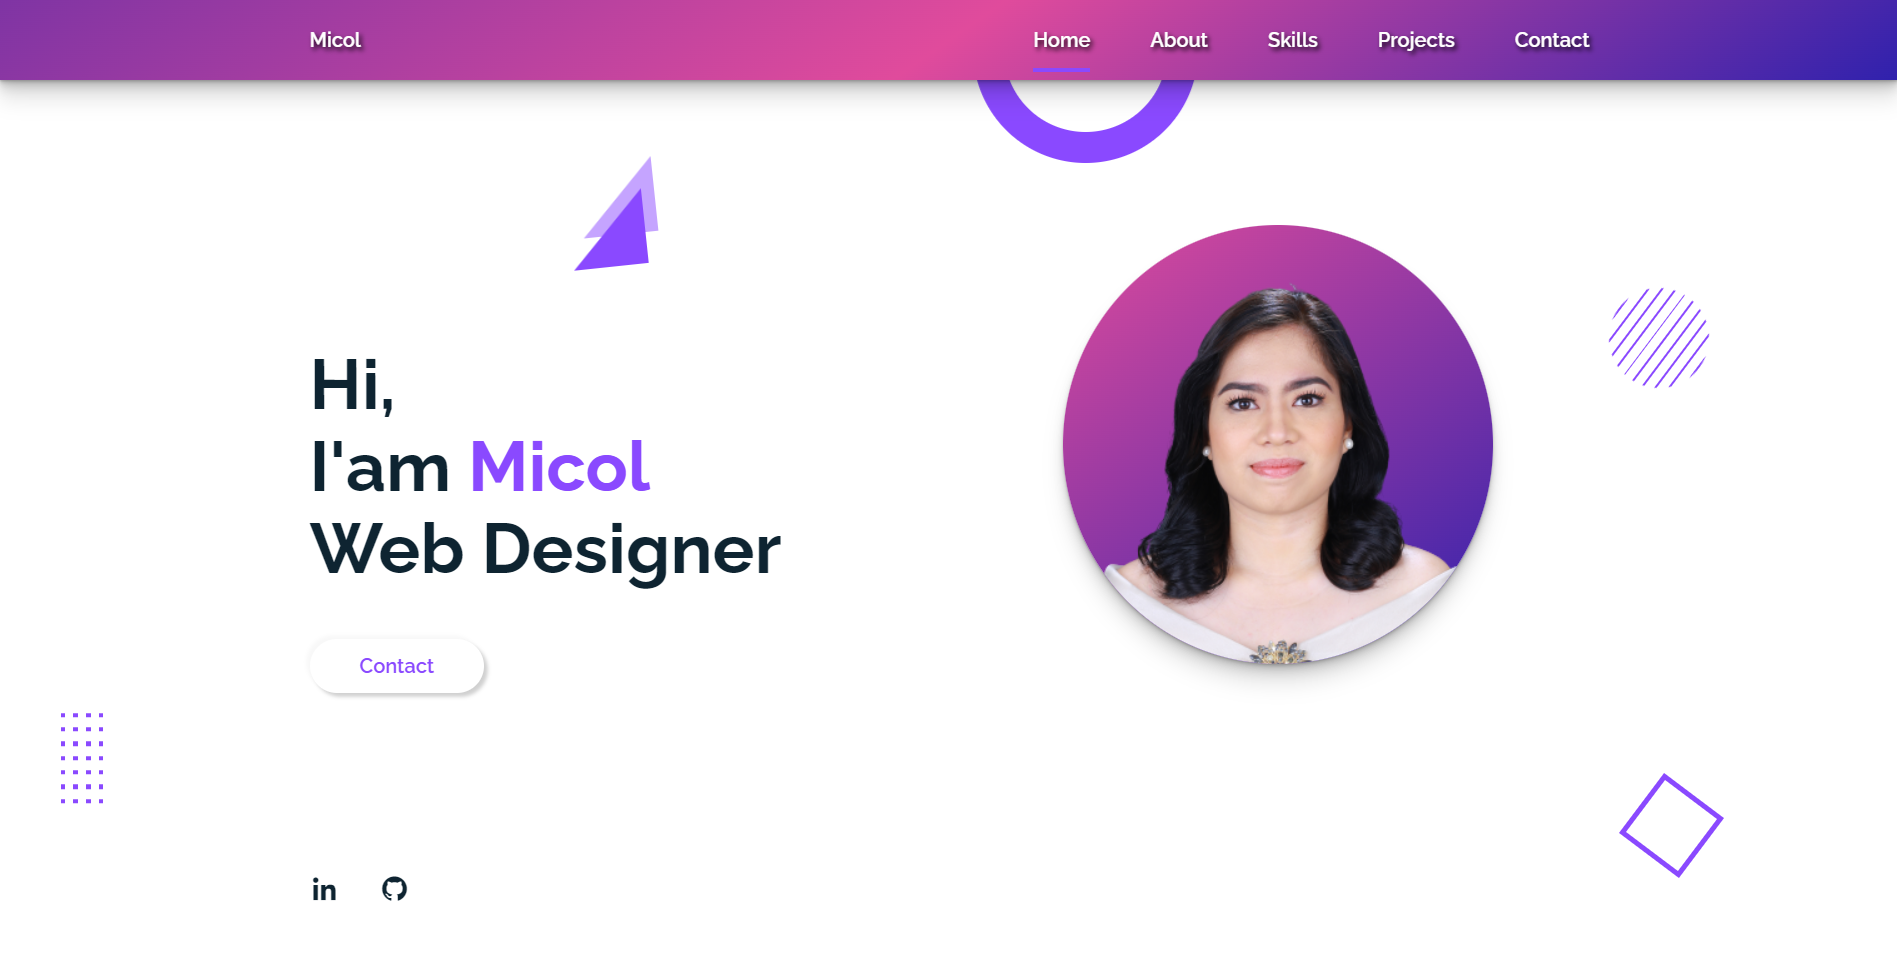
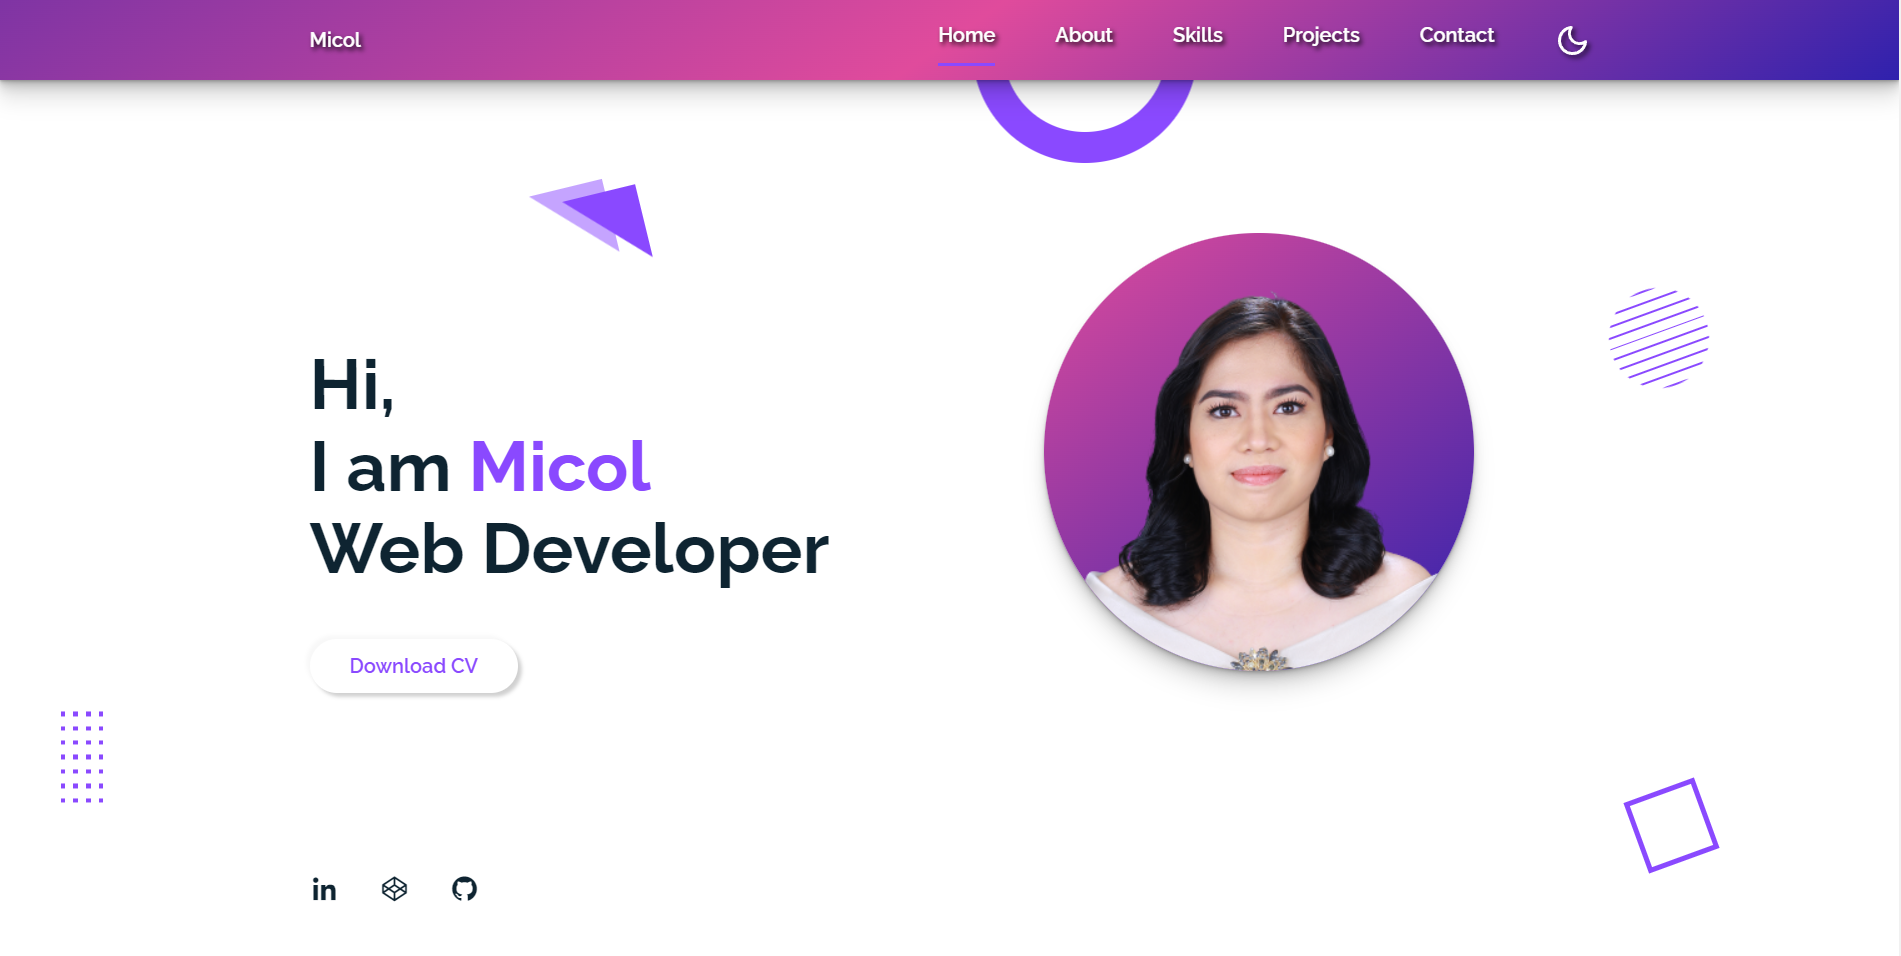
Updated

diff --git a/index.html b/index.html
@@ -19,7 +19,7 @@
 
             <div class="nav-menu" id="nav-menu">
                 <ul class="nav-list">
-                    <li class="nav-item"><a href="#home" class="nav-link active">Home</a></li>
+                    <li class="nav-item"><a href="#" class="nav-link active">Home</a></li>
                     <li class="nav-item"><a href="#about" class="nav-link">About</a></li>
                     <li class="nav-item"><a href="#skills" class="nav-link">Skills</a></li>
                     <li class="nav-item"><a href="#projects" class="nav-link">Projects</a></li>
@@ -52,7 +52,7 @@
                     </div>
                     <!-- effect wrap end -->
                 <div class="home__data">
-                    <h1 class="home__title">Hi,<br>I am <span class="home__title-color">Micol</span><br> Web Designer</h1>
+                    <h1 class="home__title">Hi,<br>I am <span class="home__title-color">Micol</span><br> Web Developer</h1>
 
                     <a href="#" class="button">Download CV</a>
                 </div>
@@ -126,7 +126,7 @@
                                 
                             </div>
                             <div>
-                                <span class="skills__percentage">65%</span>
+                                <span class="skills__percentage">20%</span>
                             </div>
                         </div>
                         <div class="skills__data">

diff --git a/css/styles.css b/css/styles.css
@@ -414,7 +414,7 @@ img{
   text-shadow: 2px 2px 4px #000000;
   background: linear-gradient(-35deg, #2f21ad, #e04b9c);
   padding: 100px;
-  animation: mymove 5s linear infinite;
+  animation: mymove 10s linear infinite;
 }
 
 @keyframes mymove {
@@ -479,7 +479,7 @@ img{
   width: 85%;
 }
 .skills__js{
-  width: 65%;
+  width: 20%;
 }
 .skills__ux{
   width: 85%;
